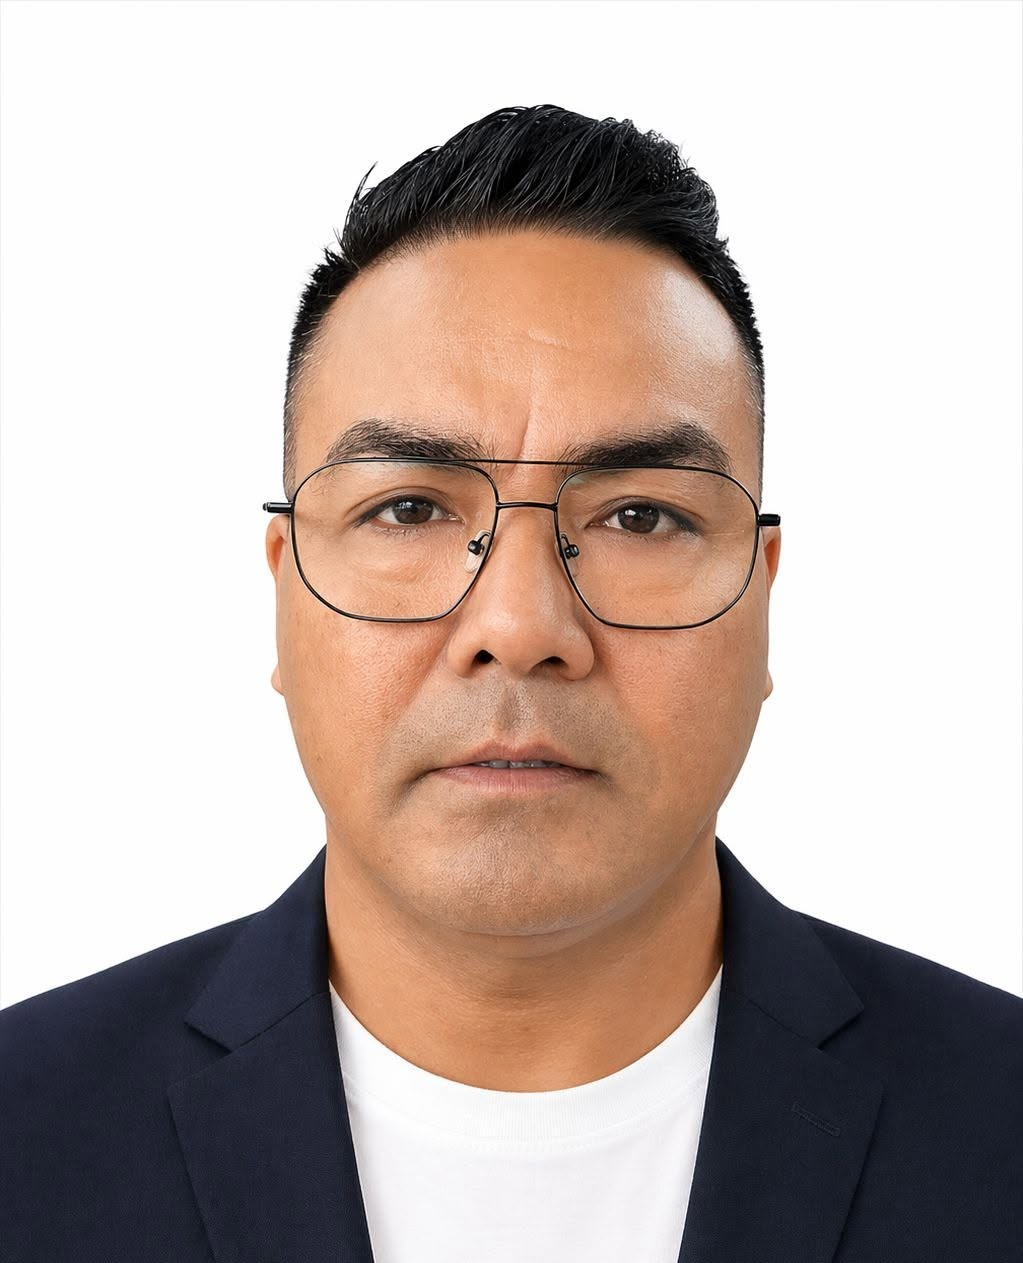
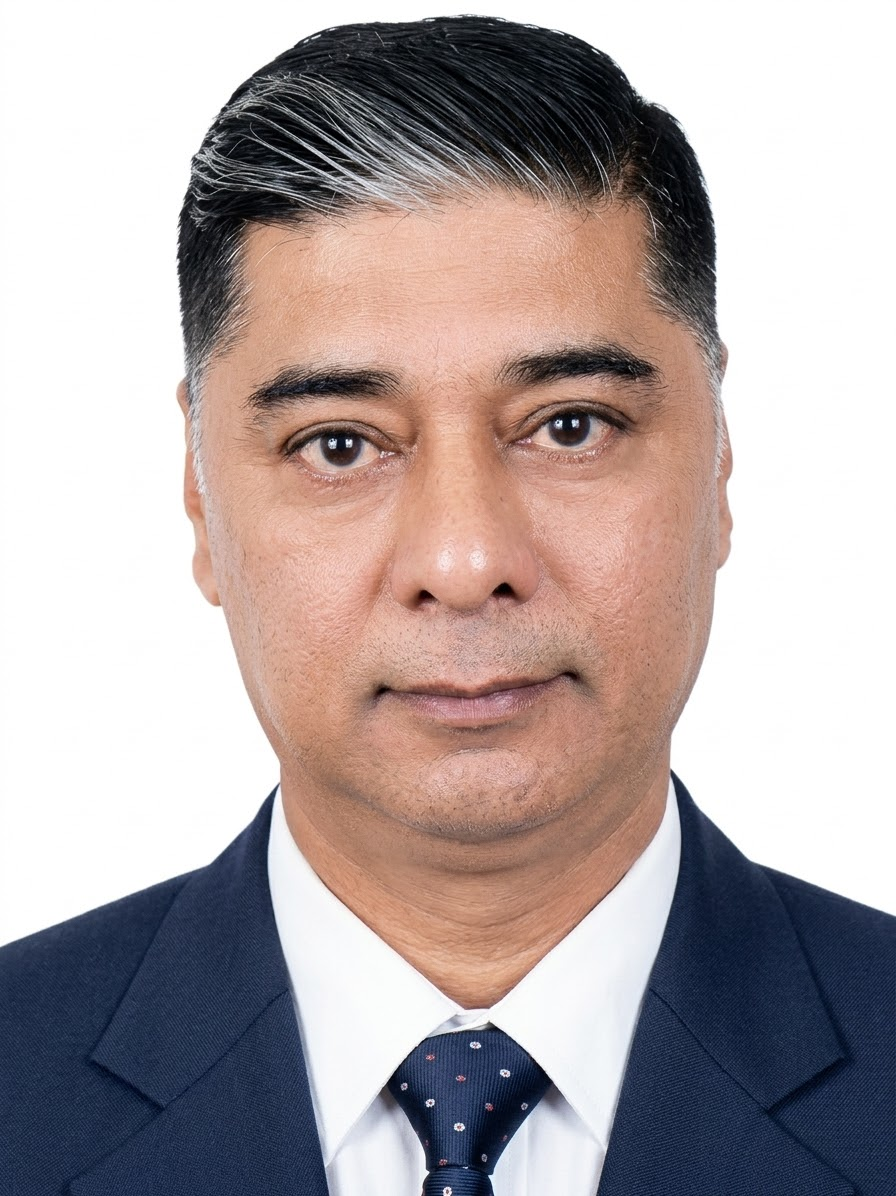
Details updated

diff --git a/config.js b/config.js
@@ -12,16 +12,16 @@ const BUSINESS_CONFIG = {
         middleName: "",
         lastName: "Shrestha",
         fullName: "Mr. Ujjwal Shrestha",       // Displayed in header & vCard
-        title: "CEO",              // Job title / designation
+        title: "Chairman",              // Job title / designation
         profilePhoto: "image/profile_photo.jpg",  // Profile photo for card & vCard
     },
 
     // --- Company Details ---
     company: {
-        name: "Euro Green Motors Pvt. Ltd. \n Euro Green Auto Care Pvt. Ltd.",    // Displayed in header & page title
+        name: "Euro Green Motors Pvt. Ltd. \n&  Euro Green Auto Care Pvt. Ltd.",    // Displayed in header & page title
         tagline: "Authorized Dealer of BYD Auto Industry CO. Ltd. for Chitwan",               // Used in the page <title>
         aboutHeading: "About ME",     // Heading for the about section
-        aboutText: `CEO of Euro Green Motors Pvt. Ltd. and Euro Green Auto Care Pvt. Ltd. An Authorized Dealer of BYD Auto Industry CO. Ltd. for Chitwan.`,
+        aboutText: `Chairman of Euro Green Motors Pvt. Ltd. and Euro Green Auto Care Pvt. Ltd. An Authorized Dealer of BYD Auto Industry CO. Ltd. for Chitwan.`,
     },
 
     // --- Contact Details ---
